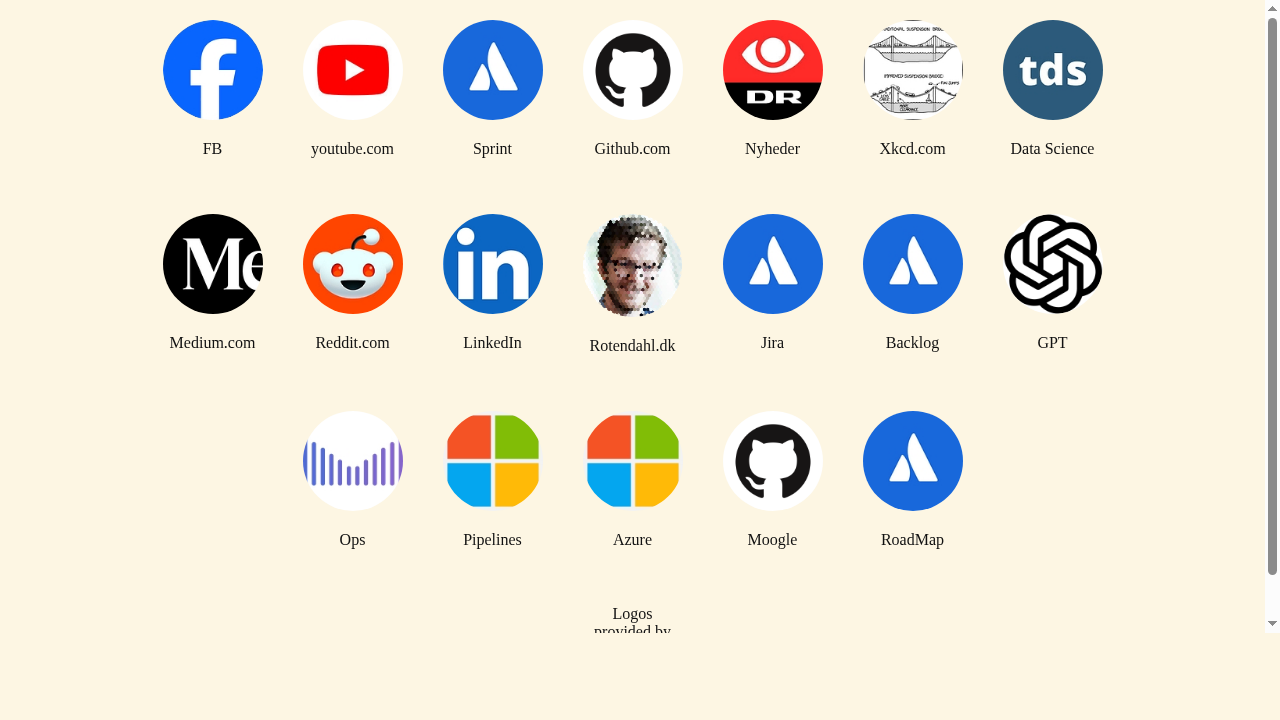
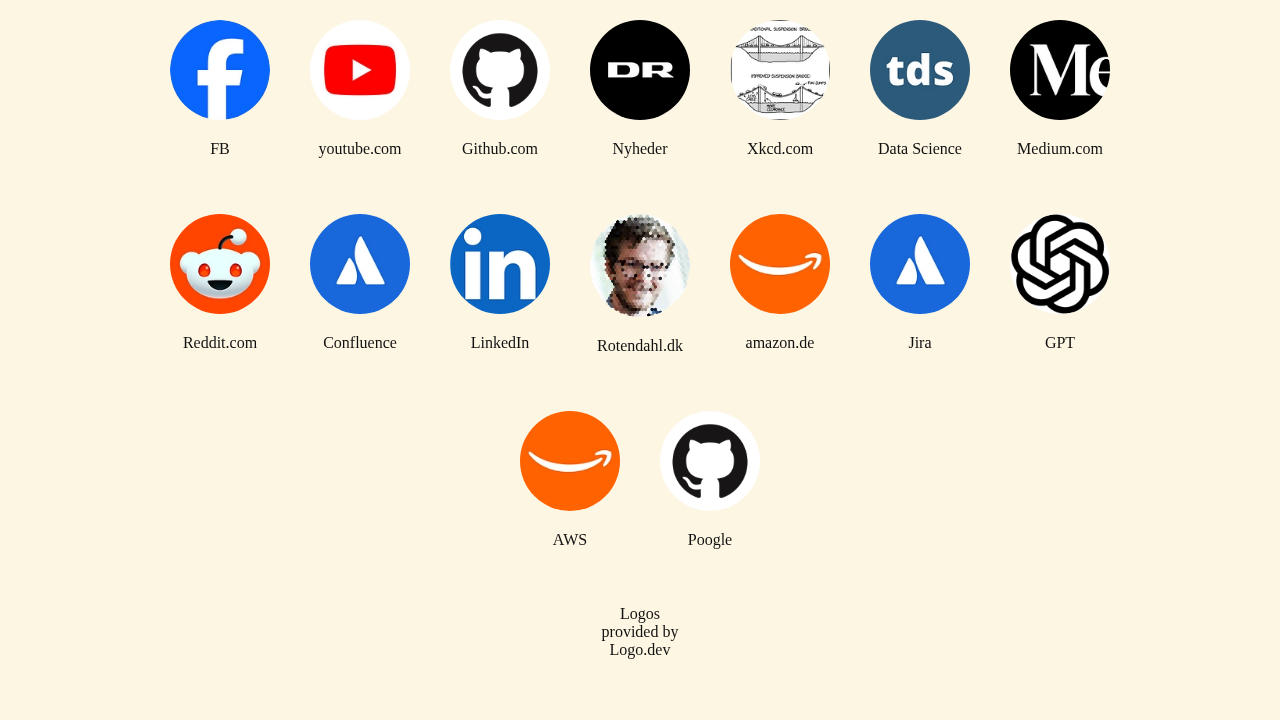
Deploying to gh-pages from @ Rotendahl/Start-Page-Generator@57e1596a55c0e37a63f497044c366d554eeb3b6e 🚀

diff --git a/index.html b/index.html
@@ -17,10 +17,6 @@
       	<img src="https://img.logo.dev/youtube.com?token=pk_CRpvkunsQi2ojaUrvTgQZA" />
       	<p>youtube.com</p>
       </a>
-      <a href="https://monthio.atlassian.net/jira/software/c/projects/PT/boards/55">
-      	<img src="https://img.logo.dev/monthio.atlassian.net?token=pk_CRpvkunsQi2ojaUrvTgQZA" />
-      	<p>Sprint</p>
-      </a>
       <a href="https://Github.com/">
       	<img src="https://github.githubassets.com/images/modules/logos_page/GitHub-Mark.png" />
       	<p>Github.com</p>
@@ -45,6 +41,10 @@
       	<img src="https://img.logo.dev/Reddit.com?token=pk_CRpvkunsQi2ojaUrvTgQZA" />
       	<p>Reddit.com</p>
       </a>
+      <a href="https://hellopublic.atlassian.net/wiki/home">
+      	<img src="https://img.logo.dev/hellopublic.atlassian.net?token=pk_CRpvkunsQi2ojaUrvTgQZA" />
+      	<p>Confluence</p>
+      </a>
       <a href="https://linkedin.com/">
       	<img src="https://img.logo.dev/linkedin.com?token=pk_CRpvkunsQi2ojaUrvTgQZA" />
       	<p>LinkedIn</p>
@@ -53,37 +53,25 @@
       	<img src="https://rotendahl.dk/assets/logo.png" />
       	<p>Rotendahl.dk</p>
       </a>
-      <a href="https://monthio.atlassian.net/jira/your-work">
-      	<img src="https://img.logo.dev/monthio.atlassian.net?token=pk_CRpvkunsQi2ojaUrvTgQZA" />
-      	<p>Jira</p>
+      <a href="https://amazon.de/">
+      	<img src="https://img.logo.dev/amazon.de?token=pk_CRpvkunsQi2ojaUrvTgQZA" />
+      	<p>amazon.de</p>
       </a>
-      <a href="https://monthio.atlassian.net/jira/software/c/projects/PT/boards/55/backlog">
-      	<img src="https://img.logo.dev/monthio.atlassian.net?token=pk_CRpvkunsQi2ojaUrvTgQZA" />
-      	<p>Backlog</p>
+      <a href="https://hellopublic.atlassian.net/jira/software/c/projects/BAC/boards/107/backlog">
+      	<img src="https://img.logo.dev/hellopublic.atlassian.net?token=pk_CRpvkunsQi2ojaUrvTgQZA" />
+      	<p>Jira</p>
       </a>
       <a href="https://chat.openai.com/">
       	<img src="https://img.logo.dev/chat.openai.com?token=pk_CRpvkunsQi2ojaUrvTgQZA" />
       	<p>GPT</p>
       </a>
-      <a href="https://grafana.monthio.com/d/ew54Gu9Mz/screen-2-system-health?orgId=1">
-      	<img src="https://img.logo.dev/grafana.monthio.com?token=pk_CRpvkunsQi2ojaUrvTgQZA" />
-      	<p>Ops</p>
+      <a href="https://aws.amazon.com/console/">
+      	<img src="https://img.logo.dev/aws.amazon.com?token=pk_CRpvkunsQi2ojaUrvTgQZA" />
+      	<p>AWS</p>
       </a>
-      <a href="https://dev.azure.com/monthio/monthio/_build?view=folders">
-      	<img src="https://img.logo.dev/dev.azure.com?token=pk_CRpvkunsQi2ojaUrvTgQZA" />
-      	<p>Pipelines</p>
-      </a>
-      <a href="https://portal.azure.com/#home">
-      	<img src="https://img.logo.dev/portal.azure.com?token=pk_CRpvkunsQi2ojaUrvTgQZA" />
-      	<p>Azure</p>
-      </a>
-      <a href="https://github.com/search?type=code&q=org%3Amonthio">
+      <a href="https://github.com/search?type=code&q=org%3Amatadorapp">
       	<img src="https://github.githubassets.com/images/modules/logos_page/GitHub-Mark.png" />
-      	<p>Moogle</p>
-      </a>
-      <a href="https://monthio.atlassian.net/jira/polaris/projects/PD/ideas/view/8279390">
-      	<img src="https://img.logo.dev/monthio.atlassian.net?token=pk_CRpvkunsQi2ojaUrvTgQZA" />
-      	<p>RoadMap</p>
+      	<p>Poogle</p>
       </a>
 
     </div>
